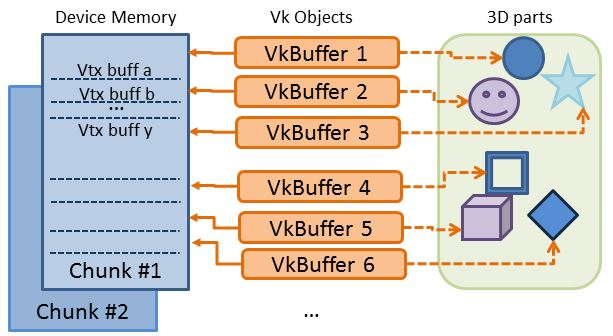
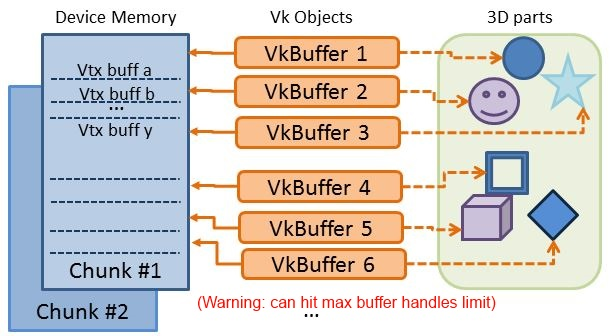
re-phrased and warning on the image that is not optimal

Changed region(s): [[0.31, 0.8631, 0.8059, 0.9226]]

diff --git a/doc/Vulkan_Renderer.md b/doc/Vulkan_Renderer.md
@@ -27,12 +27,12 @@ This sample doesn't implement this general case, but implements both of the 'ext
 the default one (see `#define USE_VKCMDBINDVERTEXBUFFERS_OFFSET`) will allocate *one VkBuffer for one chunk of Device Memory*; then offsets will be maintained for the 3D parts to find back their vertices/indices
 ![offsets](https://github.com/nvpro-samples/gl_vk_bk3dthreaded/blob/master/doc/offsets.JPG)
 
-the other approach will 'forget' about offsets in buffers and will naively create a VkBuffer for each required VBO/IBO. But a basic allocator will bind these buffers to the right offsets in the device memory chunk. 
+Another approach will 'forget' about offsets in buffers and naively create a VkBuffer for each required VBO/IBO. A basic allocator will bind these buffers to the right offsets in the device memory chunk: 
 ![offsets](https://github.com/nvpro-samples/gl_vk_bk3dthreaded/blob/master/doc/vkbuffers.JPG)
 
-It turns-out that, out of demonstrating how to bind buffers at different areas of a device memory, the latter approach could rapidly reach the limits of available objects (here VkBuffer). This is precisely what happened to me once, with a big model from a CAD application...
+It turns-out that, out of demonstrating how to bind buffers at different areas of a device memory, **this latter approach could rapidly reach the limits of available objects** (here VkBuffer). This is precisely what happened to me once, with a big model from a CAD application...
 
-In other words, it is not a good idea to blindly use object handles only: there are good reasons for why the *offset* parameter in command-binding exist. The renderer should be clever enough aggregate small buffers together thanks to the offset-binding in the command-buffer creation. The best solution would be *to mix both, depending on the requirements of the engine*.
+In other words, it is **not a good idea to blindly use object handles only**: there are good reasons for why the *offset* parameter in command-binding exist. The renderer should be clever enough aggregate small buffers together thanks to the offset-binding in the command-buffer creation. The best solution would be *to mix both, depending on the requirements of the engine*.
 
 ## Initialization of Vulkan components
 This section should be self-explanatory. Essentially the idea is to prepare things up-front, as much as possible (in fact: everything, except command-buffers) so that the *rendering loop doesn't involve any sort of expensive validation*. 
